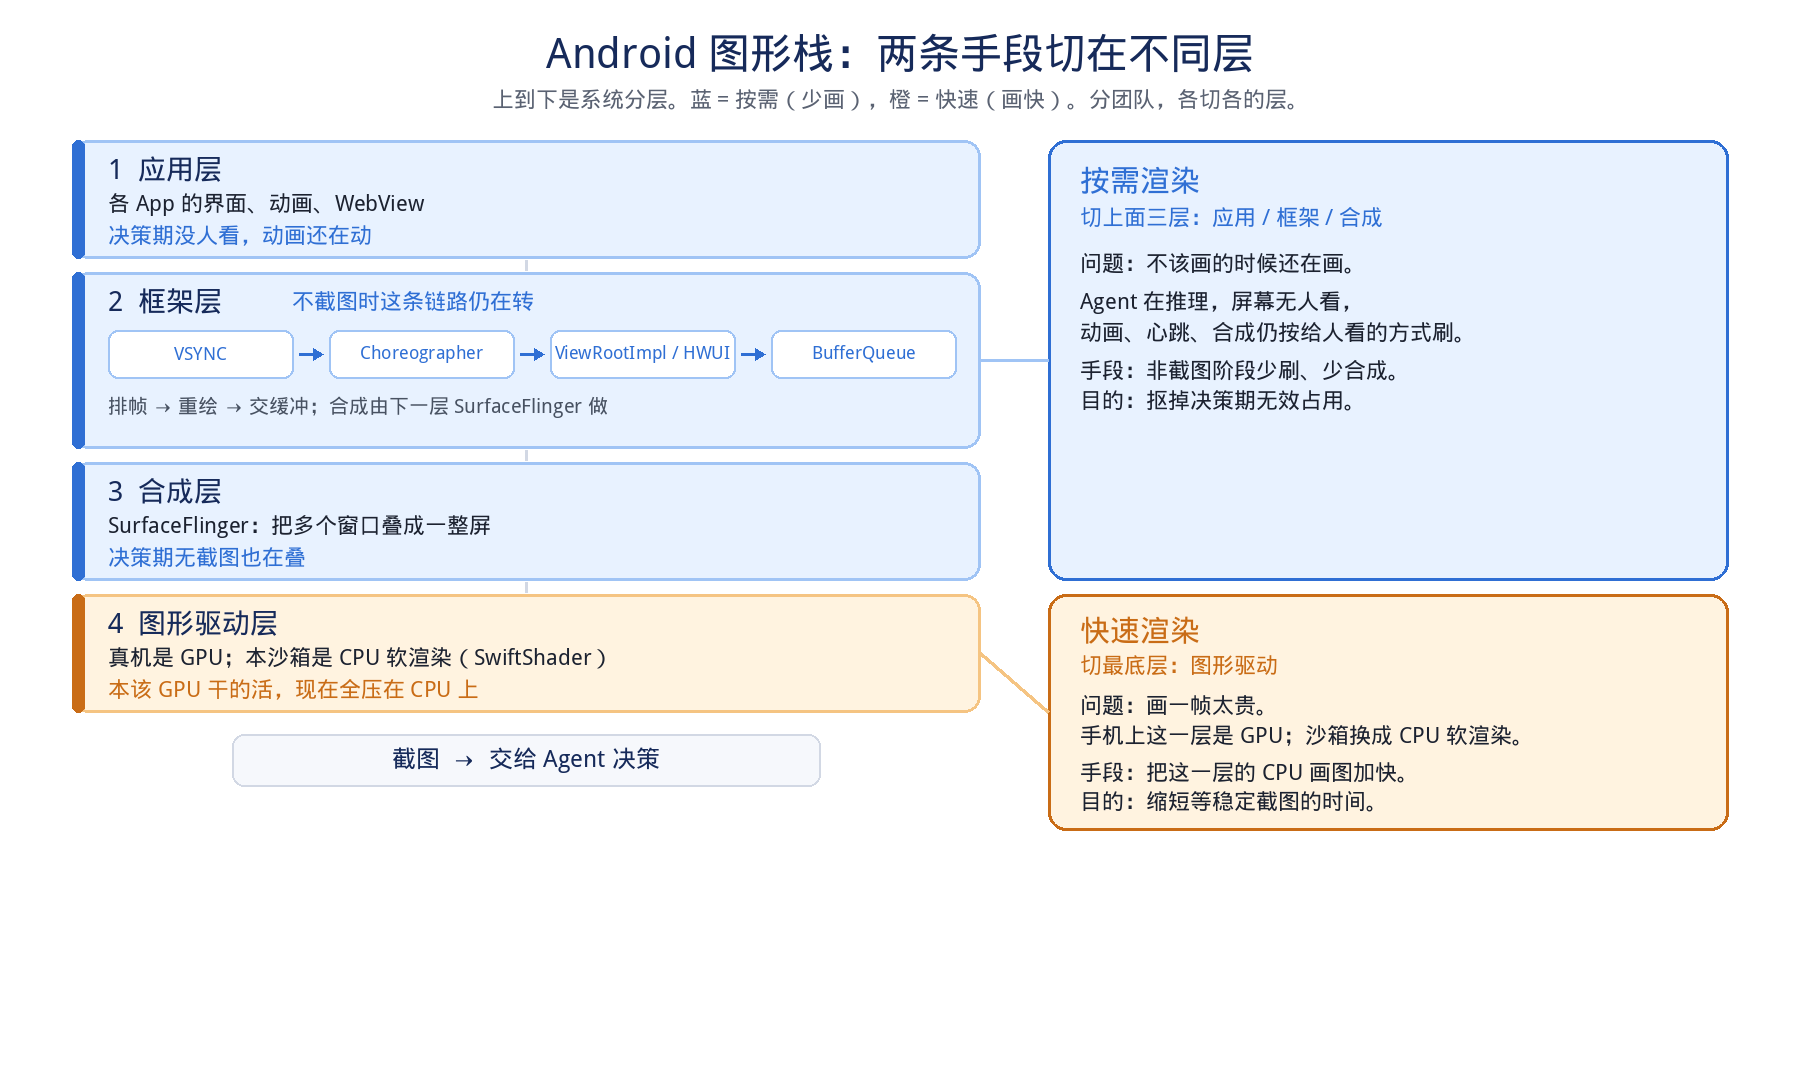
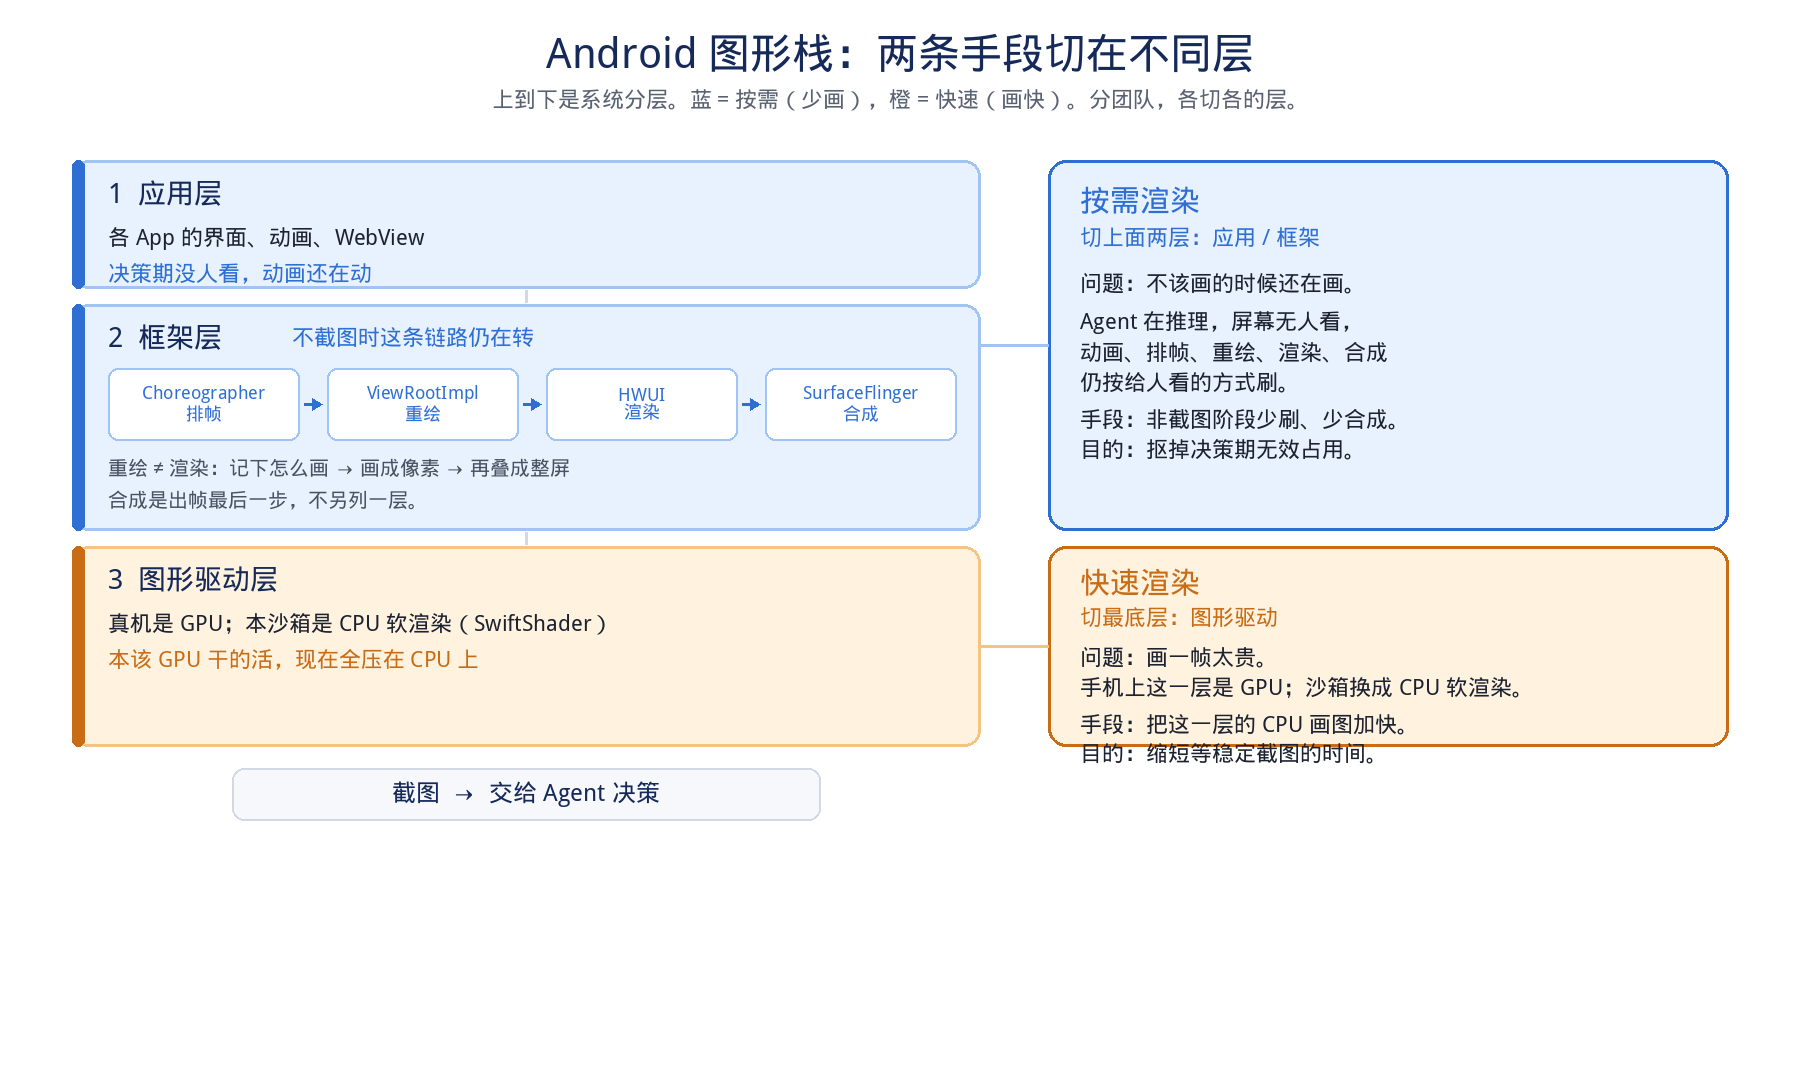
docs: merge compositor into framework; split redraw vs render
Autonomously-by: Cursor-Grok:4.6

Changed region(s): [[0.0311, 0.1222, 0.9644, 0.7944]]

diff --git a/docs/assets/gen_android_cpu_render_stack.py b/docs/assets/gen_android_cpu_render_stack.py
@@ -30,9 +30,18 @@ def round_rect(draw, xy, r, fill, outline=None, width=2):
 
 def center_text(draw, xy, text, f, fill):
     x0, y0, x1, y1 = xy
-    bbox = draw.textbbox((0, 0), text, font=f)
-    tw, th = bbox[2] - bbox[0], bbox[3] - bbox[1]
-    draw.text(((x0 + x1 - tw) / 2, (y0 + y1 - th) / 2 - bbox[1]), text, font=f, fill=fill)
+    lines = text.split("\n")
+    sizes = []
+    for line in lines:
+        bbox = draw.textbbox((0, 0), line, font=f)
+        sizes.append((bbox[2] - bbox[0], bbox[3] - bbox[1], bbox[1]))
+    gap = 2
+    total_h = sum(h for _, h, _ in sizes) + gap * (len(lines) - 1)
+    y = y0 + (y1 - y0 - total_h) / 2
+    for i, line in enumerate(lines):
+        tw, th, b1 = sizes[i]
+        draw.text(((x0 + x1 - tw) / 2, y - b1), line, font=f, fill=fill)
+        y += th + gap
 
 
 def draw_lines(draw, x, y, lines, f, fill, gap=10):
@@ -48,7 +57,7 @@ def draw_lines(draw, x, y, lines, f, fill, gap=10):
 
 def draw_h_flow(draw, x0, y0, x1, steps, pill_h, f, fill, bd, accent):
     n = len(steps)
-    gap_arrow = 36
+    gap_arrow = 28
     inner = x1 - x0
     pill_w = (inner - gap_arrow * (n - 1)) / n
     y1 = y0 + pill_h
@@ -58,8 +67,8 @@ def draw_h_flow(draw, x0, y0, x1, steps, pill_h, f, fill, bd, accent):
         round_rect(draw, (px0, y0, px1, y1), 10, WHITE, bd, 2)
         center_text(draw, (px0, y0, px1, y1), label, f, accent)
         if i < n - 1:
-            ax0 = px1 + 6
-            ax1 = px0 + pill_w + gap_arrow - 6
+            ax0 = px1 + 5
+            ax1 = px0 + pill_w + gap_arrow - 5
             midy = (y0 + y1) / 2
             draw.line((ax0, midy, ax1 - 8, midy), fill=accent, width=3)
             draw.polygon(
@@ -98,69 +107,79 @@ def main():
             "bd": BLUE_BD,
             "accent": BLUE,
             "note_fill": BLUE,
+            "h": 128,
         },
         {
             "title": "2  框架层",
             "body": "",
             "note": "不截图时这条链路仍在转",
-            "flow": ["VSYNC", "Choreographer", "ViewRootImpl / HWUI", "BufferQueue"],
+            "flow": [
+                "Choreographer\n排帧",
+                "ViewRootImpl\n重绘",
+                "HWUI\n渲染",
+                "SurfaceFlinger\n合成",
+            ],
             "fill": BLUE_BG,
             "bd": BLUE_BD,
             "accent": BLUE,
             "note_fill": BLUE,
+            "h": 226,
         },
         {
-            "title": "3  合成层",
-            "body": "SurfaceFlinger：把多个窗口叠成一整屏",
-            "note": "决策期无截图也在叠",
-            "fill": BLUE_BG,
-            "bd": BLUE_BD,
-            "accent": BLUE,
-            "note_fill": BLUE,
-        },
-        {
-            "title": "4  图形驱动层",
+            "title": "3  图形驱动层",
             "body": "真机是 GPU；本沙箱是 CPU 软渲染（SwiftShader）",
             "note": "本该 GPU 干的活，现在全压在 CPU 上",
             "fill": ORANGE_BG,
             "bd": ORANGE_BD,
             "accent": ORANGE,
             "note_fill": ORANGE,
+            "h": 200,
         },
     ]
 
-    y = 140
-    gap = 14
+    y = 160
+    gap = 16
     boxes = []
     for layer in layers:
-        h = 176 if layer.get("flow") else 118
+        h = layer["h"]
         box = (sx0, y, sx1, y + h)
         boxes.append(box)
         round_rect(d, box, 16, layer["fill"], layer["bd"], 3)
         d.rounded_rectangle((sx0, y, sx0 + 12, y + h), radius=6, fill=layer["accent"])
-        d.text((sx0 + 36, y + 12), layer["title"], font=layer_title_f, fill=NAVY)
+        d.text((sx0 + 36, y + 16), layer["title"], font=layer_title_f, fill=NAVY)
         if layer.get("flow"):
-            d.text((sx0 + 220, y + 16), layer["note"], font=layer_body_f, fill=layer["note_fill"])
+            d.text((sx0 + 220, y + 20), layer["note"], font=layer_body_f, fill=layer["note_fill"])
             draw_h_flow(
                 d,
                 sx0 + 36,
-                y + 58,
+                y + 64,
                 sx1 - 24,
                 layer["flow"],
-                48,
+                72,
                 font(18),
                 WHITE,
                 layer["bd"],
                 layer["accent"],
             )
-            d.text((sx0 + 36, y + 122), "排帧 → 重绘 → 交缓冲；合成由下一层 SurfaceFlinger 做", font=font(20), fill=MUTED)
+            d.text(
+                (sx0 + 36, y + 152),
+                "重绘 ≠ 渲染：记下怎么画 → 画成像素 → 再叠成整屏",
+                font=font(20),
+                fill=MUTED,
+            )
+            d.text(
+                (sx0 + 36, y + 184),
+                "合成是出帧最后一步，不另列一层。",
+                font=font(20),
+                fill=MUTED,
+            )
         else:
-            d.text((sx0 + 36, y + 50), layer["body"], font=layer_body_f, fill=TEXT)
-            d.text((sx0 + 36, y + 82), layer["note"], font=layer_body_f, fill=layer["note_fill"])
+            d.text((sx0 + 36, y + 64), layer["body"], font=layer_body_f, fill=TEXT)
+            d.text((sx0 + 36, y + 100), layer["note"], font=layer_body_f, fill=layer["note_fill"])
         y = y + h + gap
 
     xmid = (sx0 + sx1) / 2
-    for i in range(3):
+    for i in range(len(boxes) - 1):
         d.line((xmid, boxes[i][3] + 2, xmid, boxes[i + 1][1] - 2), fill=LINE, width=3)
 
     fy0 = boxes[-1][3] + 22
@@ -175,10 +194,10 @@ def main():
 
     cx0, cx1 = 1048, 1728
     y_on0 = boxes[0][1]
-    y_on1 = boxes[2][3]
+    y_on1 = boxes[1][3]
     round_rect(d, (cx0, y_on0, cx1, y_on1), 18, BLUE_BG, BLUE, 3)
     d.text((cx0 + 32, y_on0 + 22), "按需渲染", font=call_title_f, fill=BLUE)
-    d.text((cx0 + 32, y_on0 + 64), "切上面三层：应用 / 框架 / 合成", font=call_sub_f, fill=BLUE)
+    d.text((cx0 + 32, y_on0 + 64), "切上面两层：应用 / 框架", font=call_sub_f, fill=BLUE)
     draw_lines(
         d,
         cx0 + 32,
@@ -187,7 +206,8 @@ def main():
             "问题：不该画的时候还在画。",
             "",
             "Agent 在推理，屏幕无人看，",
-            "动画、心跳、合成仍按给人看的方式刷。",
+            "动画、排帧、重绘、渲染、合成",
+            "仍按给人看的方式刷。",
             "",
             "手段：非截图阶段少刷、少合成。",
             "目的：抠掉决策期无效占用。",
@@ -197,8 +217,8 @@ def main():
         gap=8,
     )
 
-    y_f0 = boxes[3][1]
-    y_f1 = y_f0 + 236
+    y_f0 = boxes[2][1]
+    y_f1 = boxes[2][3]
     round_rect(d, (cx0, y_f0, cx1, y_f1), 18, ORANGE_BG, ORANGE, 3)
     d.text((cx0 + 32, y_f0 + 18), "快速渲染", font=call_title_f, fill=ORANGE)
     d.text((cx0 + 32, y_f0 + 58), "切最底层：图形驱动", font=call_sub_f, fill=ORANGE)
@@ -218,8 +238,8 @@ def main():
         gap=8,
     )
 
-    d.line((sx1, (boxes[0][1] + boxes[2][3]) / 2, cx0, (y_on0 + y_on1) / 2), fill=BLUE_BD, width=3)
-    d.line((sx1, (boxes[3][1] + boxes[3][3]) / 2, cx0, (y_f0 + y_f1) / 2), fill=ORANGE_BD, width=3)
+    d.line((sx1, (boxes[0][1] + boxes[1][3]) / 2, cx0, (y_on0 + y_on1) / 2), fill=BLUE_BD, width=3)
+    d.line((sx1, (boxes[2][1] + boxes[2][3]) / 2, cx0, (y_f0 + y_f1) / 2), fill=ORANGE_BD, width=3)
 
     out = "/workspace/docs/assets/android-cpu-render-stack.png"
     img.save(out, "PNG", optimize=True)

diff --git a/docs/android-sandbox-on-demand-rendering.md b/docs/android-sandbox-on-demand-rendering.md
@@ -73,11 +73,10 @@ Mobile GUI 训练不是「开一台模拟器给人看」，而是用很多台 An
 
 不先拆清切哪一层，按需和快速会对不准团队。
 
-**上面三层（不该画还在画）→ 按需渲染**
+**上面两层（不该画还在画）→ 按需渲染**
 
 - **应用层：** 动画、WebView 仍在动。
-- **框架层：** VSYNC 到了，**Choreographer** 排下一帧，**ViewRootImpl / HWUI** 重绘窗口，**BufferQueue** 把缓冲交给合成层；不截图时这条链路仍在转。
-- **合成层：** **SurfaceFlinger** 把多个窗口叠成一整屏；决策期无截图也在叠。
+- **框架层：** 出一帧四步，**重绘 ≠ 渲染**。**Choreographer** 排帧 → **ViewRootImpl** 重绘（走 View 树，记下怎么画）→ **HWUI** 渲染（画成像素）→ **SurfaceFlinger** 合成（多窗口叠成整屏）。官方图没有单独的「合成层」，合成是出帧最后一步，不另列一层。不截图时这条链路仍在转。
 
 **最底层（画一帧太贵）→ 快速渲染**
 
@@ -86,23 +85,23 @@ Mobile GUI 训练不是「开一台模拟器给人看」，而是用很多台 An
 
 由此只收两条手段（并行、分团队）：
 
-1. **按需渲染：** 切应用 / 框架 / 合成，非截图阶段少刷，把热点占用抠掉；能否降核用同节点实验回答。  
+1. **按需渲染：** 切应用 / 框架，非截图阶段少刷、少合成，把热点占用抠掉；能否降核用同节点实验回答。  
 2. **快速渲染：** 切图形驱动层，把 CPU 软渲染画快，缩短出帧。
 
 ## 4. 软件栈图
 
-上到下是 Android 图形栈。蓝 = 按需（上面三层），橙 = 快速（最底层驱动）。
+上到下是 Android 图形栈。蓝 = 按需（应用 / 框架），橙 = 快速（驱动）。
 
-![Android 图形栈：按需切上面三层，快速切图形驱动层](assets/android-cpu-render-stack.png)
+![Android 图形栈：按需切应用和框架，快速切图形驱动层](assets/android-cpu-render-stack.png)
 
-框架层流程图四个名字，对应刚才口语里的三步：
+框架层出一帧：
 
-| 口语 | 模块 | 干什么 |
+| 步骤 | 模块 | 干什么 |
 | --- | --- | --- |
-| （心跳） | **VSYNC** | 显示/合成侧发出的帧同步信号，不是框架自己造的时钟 |
-| 调度下一帧 | **Choreographer** | 接到 VSYNC 后按序跑 input → animation → traversal |
-| 窗口重绘 | **ViewRootImpl + HWUI** | `performTraversals`：measure / layout / draw；HWUI 的 RenderThread 真正画 |
-| 送去合成 | **BufferQueue** | 窗口把画好的缓冲交出去；**叠屏是下一层 SurfaceFlinger**，不在框架层里做 |
+| 排帧 | **Choreographer** | 接到 VSYNC 后决定这一帧现在走 |
+| 重绘 | **ViewRootImpl** | measure / layout / draw，记下怎么画，**还不是像素** |
+| 渲染 | **HWUI** | RenderThread 把命令画进窗口缓冲，**这才是渲染** |
+| 合成 | **SurfaceFlinger** | 多个窗口叠成一整屏；官方不单列一层，图上并进框架 |
 
 ## 依据（脚注，不入口号正文）
 
